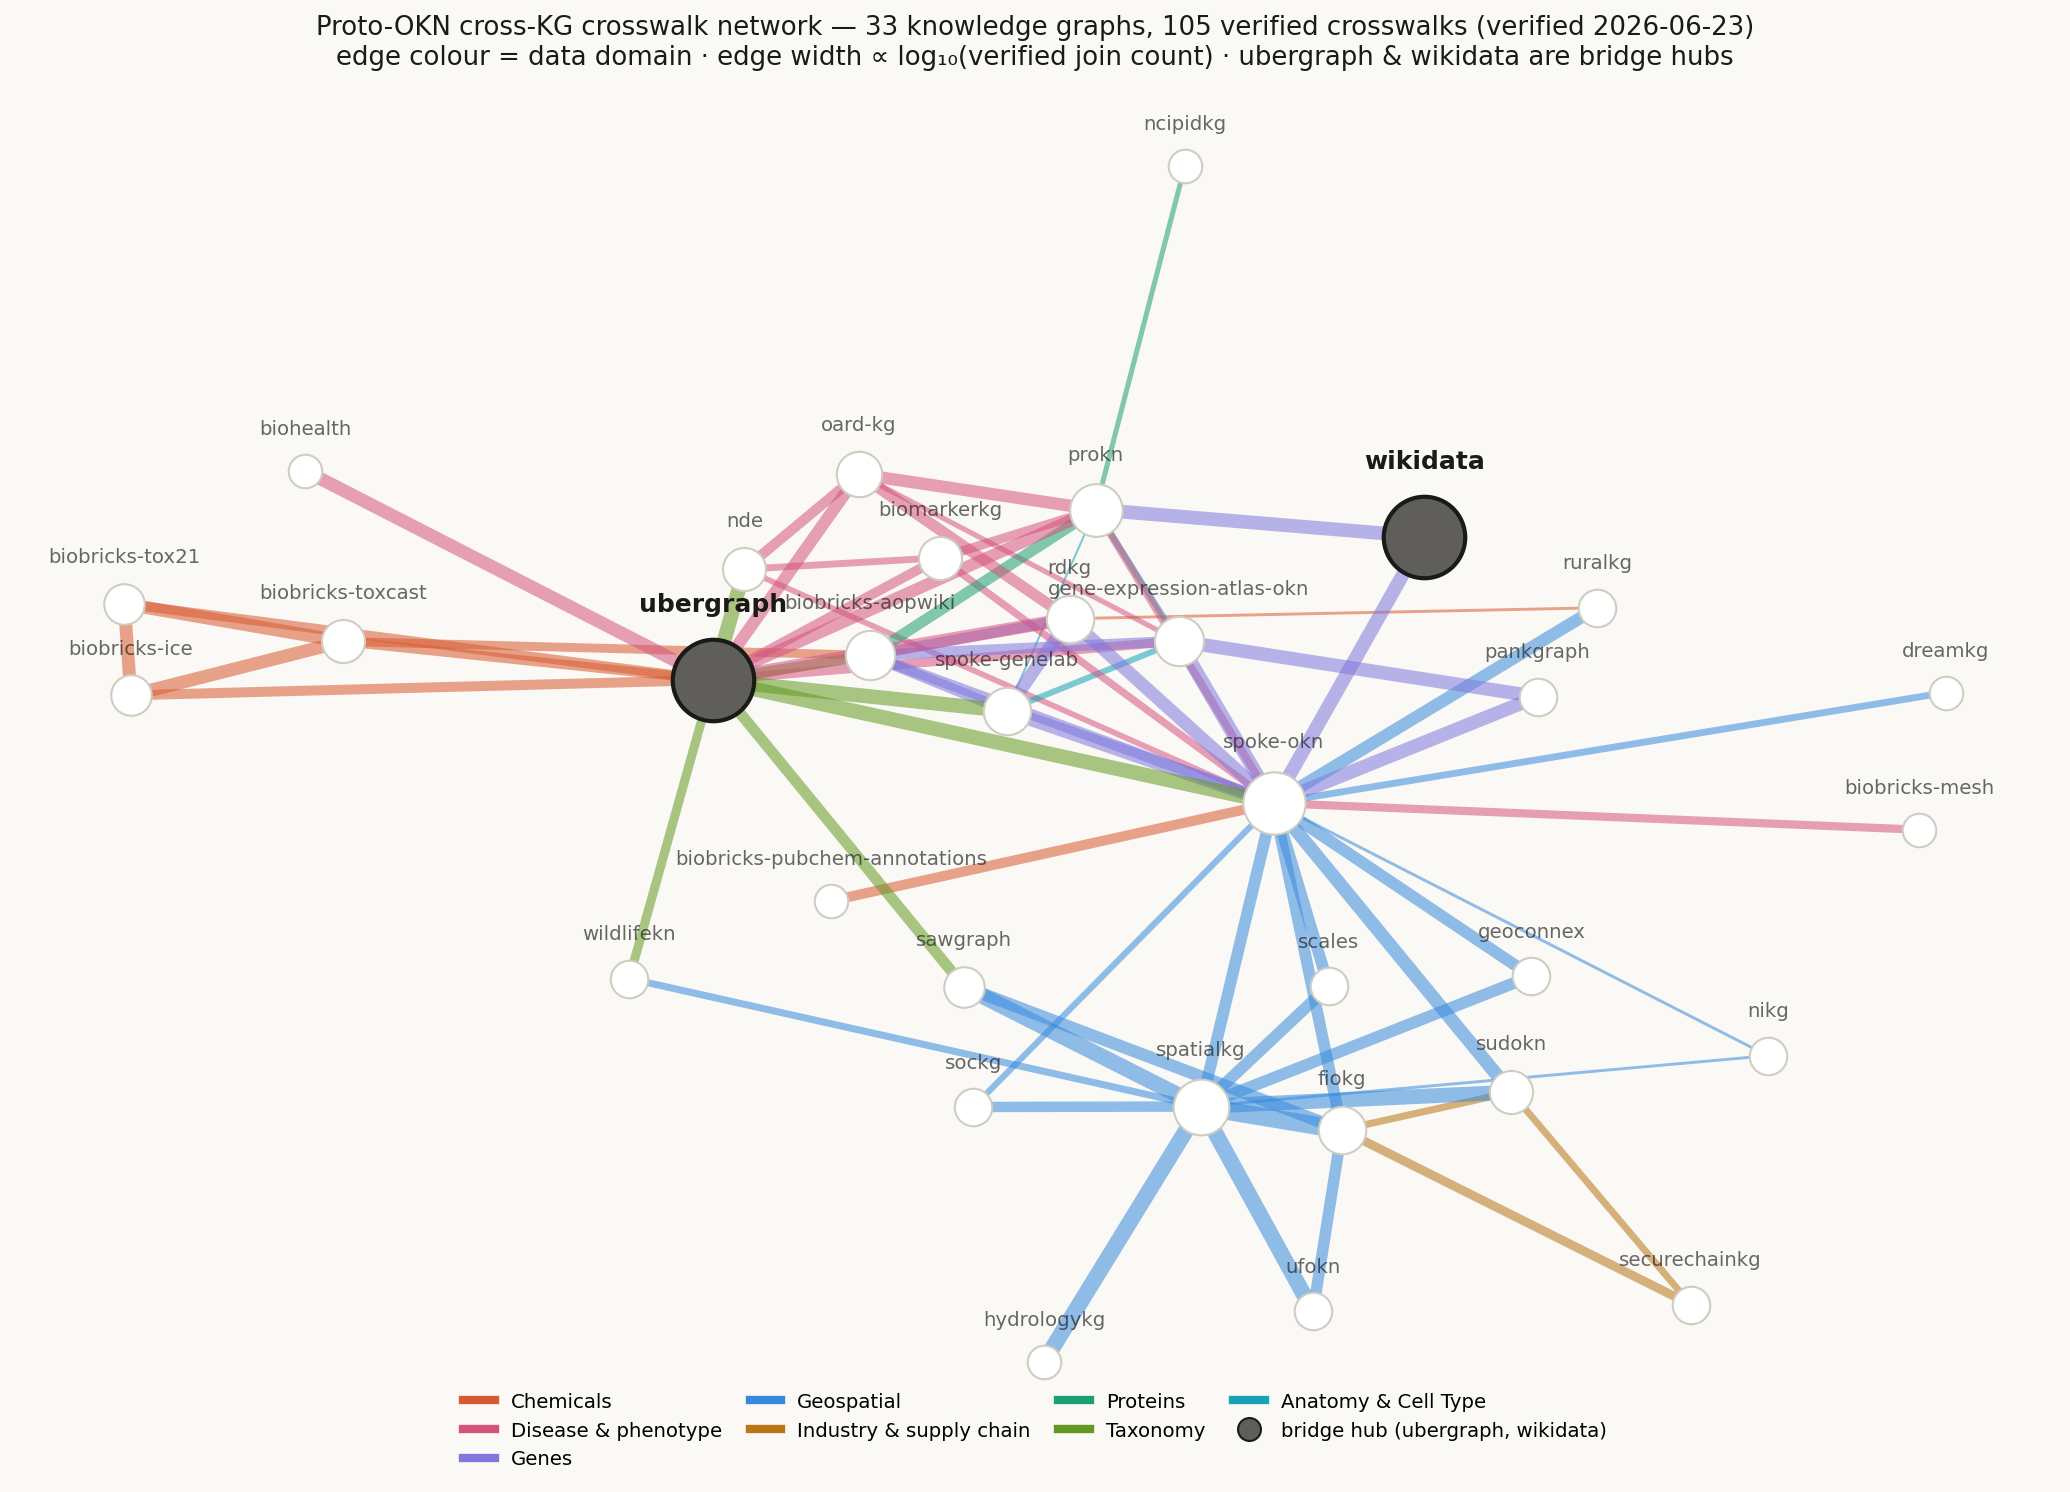
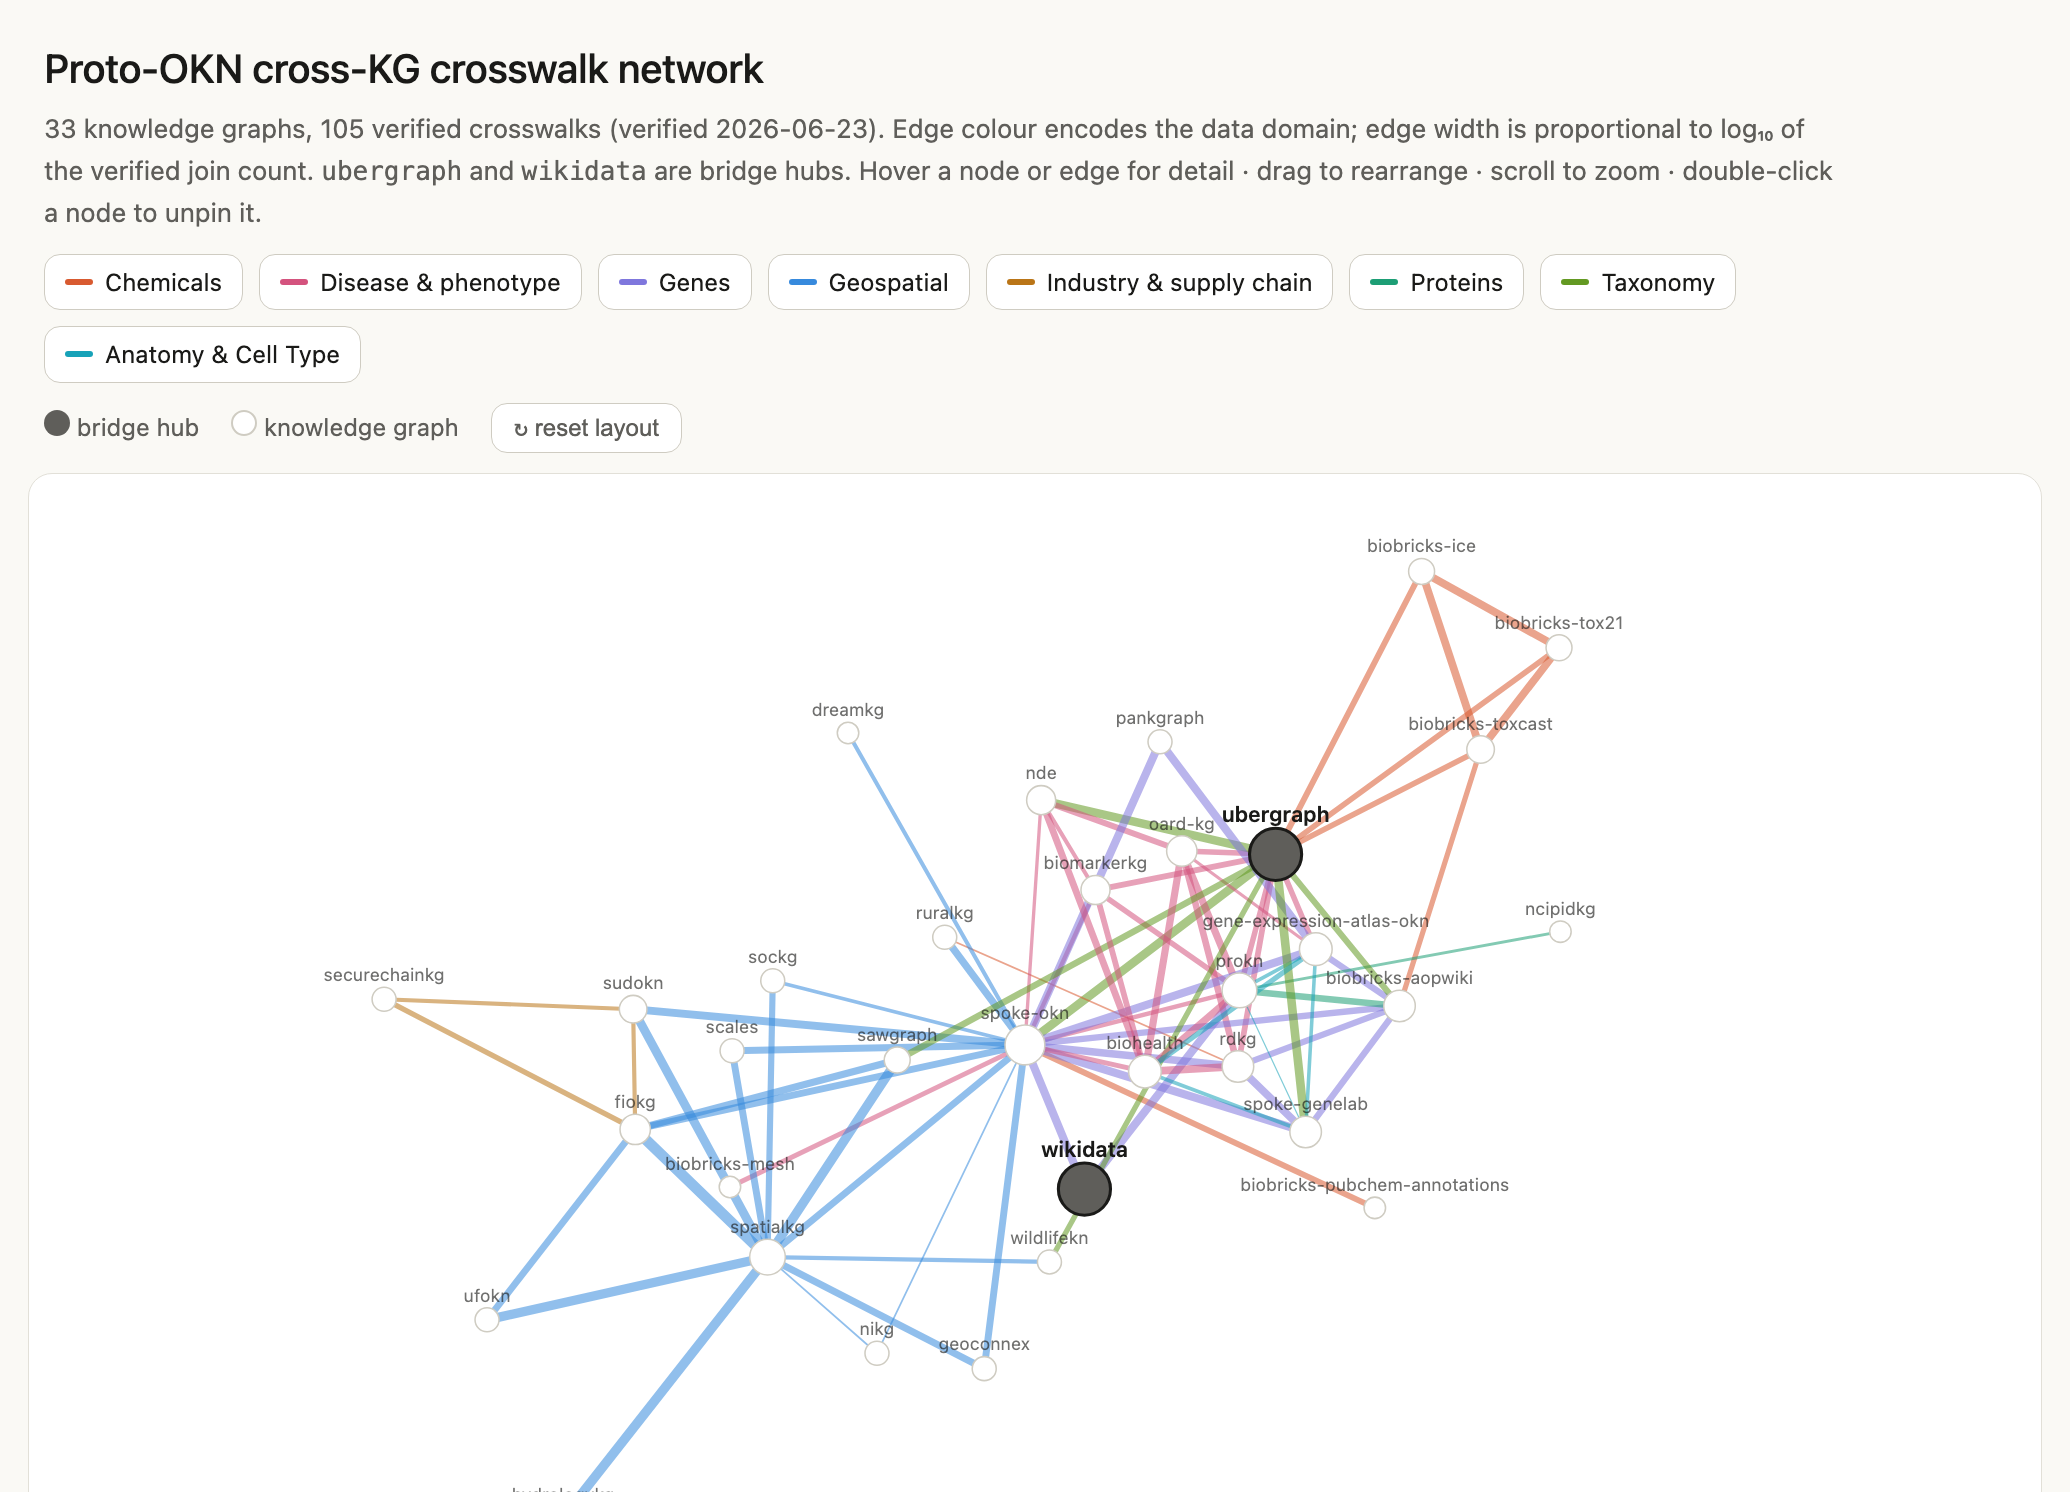
docs: draw biohealth with direct partner edges in network diagram
Biohealth was rendering as a degree-1 leaf off ubergraph because its 10
crosswalks were encoded as 3-node hub tuples that all collapse onto the
biohealth-ubergraph segment. Re-encode them as direct biohealth-partner
edges with the ubergraph bridge noted in the label, so biohealth reads as
the degree-8 disease hub it is. Regenerate the PNG and align the
transcript prose.

diff --git a/docs/crosswalks/crosswalk-network.html b/docs/crosswalks/crosswalk-network.html
@@ -81,8 +81,8 @@ const R=[
 ["I",["fiokg","securechainkg"],301,"NAICS"],["I",["fiokg","sudokn"],64,"NAICS"],["I",["securechainkg","sudokn"],35,"NAICS"],["I",["securechainkg","sudokn"],58,"SUDOKN sector"],
 ["P",["biobricks-aopwiki","prokn"],1805,"UniProt"],["P",["ncipidkg","prokn"],12,"UniProt"],
 ["T",["biobricks-aopwiki","ubergraph","gene-expression-atlas-okn"],[7,8,8],"NCBITaxon"],["T",["biobricks-aopwiki","ubergraph","nde"],[62,164,961],"NCBITaxon"],["T",["biobricks-aopwiki","ubergraph","sawgraph"],[7,164,145],"NCBITaxon"],["T",["biobricks-aopwiki","ubergraph","spoke-genelab"],[7,8,8],"NCBITaxon"],["T",["gene-expression-atlas-okn","ubergraph","nde"],[6,8,12],"NCBITaxon"],["T",["gene-expression-atlas-okn","ubergraph","sawgraph"],[0,8,0],"NCBITaxon"],["T",["gene-expression-atlas-okn","ubergraph","spoke-genelab"],[8,8,8],"NCBITaxon"],["T",["nde","ubergraph","sawgraph"],[73,1727,538],"NCBITaxon"],["T",["nde","ubergraph","spoke-genelab"],[7,46,55],"NCBITaxon"],["T",["nde","ubergraph","spoke-okn"],[23,23,33601],"NCBITaxon"],["T",["nde","ubergraph","wildlifekn"],[17,57,339],"NCBITaxon"],["T",["sawgraph","ubergraph","spoke-genelab"],[0,0,13],"NCBITaxon"],["T",["sawgraph","ubergraph","wildlifekn"],[2,2,339],"NCBITaxon"],["T",["spoke-genelab","ubergraph","spoke-okn"],[2,2,33313],"NCBITaxon"],
-["D",["biohealth","ubergraph","rdkg"],9122,"UMLS\u2194MONDO"],["D",["biohealth","ubergraph","prokn"],4284,"UMLS\u2194HP"],["D",["biohealth","ubergraph","spoke-okn"],173,"UMLS\u2194MONDO\u2194DOID"],["D",["biohealth","ubergraph","oard-kg"],1796,"UMLS\u2194MONDO"],["D",["biohealth","ubergraph","oard-kg"],4549,"UMLS\u2194HP"],["D",["biohealth","ubergraph","nde"],2760,"UMLS\u2194MONDO"],["D",["biohealth","ubergraph","biomarkerkg"],620,"UMLS\u2194MONDO\u2194DOID"],["D",["biohealth","ubergraph","gene-expression-atlas-okn"],13,"UMLS\u2194HP"],
-["A",["biohealth","ubergraph","gene-expression-atlas-okn"],249,"UMLS\u2194UBERON"],["A",["biohealth","ubergraph","spoke-genelab"],35,"UMLS\u2194UBERON"],["A",["spoke-genelab","gene-expression-atlas-okn"],27,"UBERON"],["A",["gene-expression-atlas-okn","prokn"],31,"CL"],["A",["spoke-genelab","gene-expression-atlas-okn"],4,"CL"],["A",["spoke-genelab","prokn"],1,"CL"]
+["D",["biohealth","rdkg"],9122,"UMLS\u2194MONDO (ubergraph)"],["D",["biohealth","prokn"],4284,"UMLS\u2194HP (ubergraph)"],["D",["biohealth","spoke-okn"],173,"UMLS\u2194MONDO\u2194DOID (ubergraph)"],["D",["biohealth","oard-kg"],1796,"UMLS\u2194MONDO (ubergraph)"],["D",["biohealth","oard-kg"],4549,"UMLS\u2194HP (ubergraph)"],["D",["biohealth","nde"],2760,"UMLS\u2194MONDO (ubergraph)"],["D",["biohealth","biomarkerkg"],620,"UMLS\u2194MONDO\u2194DOID (ubergraph)"],["D",["biohealth","gene-expression-atlas-okn"],13,"UMLS\u2194HP (ubergraph)"],
+["A",["biohealth","gene-expression-atlas-okn"],249,"UMLS\u2194UBERON (ubergraph)"],["A",["biohealth","spoke-genelab"],35,"UMLS\u2194UBERON (ubergraph)"],["A",["spoke-genelab","gene-expression-atlas-okn"],27,"UBERON"],["A",["gene-expression-atlas-okn","prokn"],31,"CL"],["A",["spoke-genelab","gene-expression-atlas-okn"],4,"CL"],["A",["spoke-genelab","prokn"],1,"CL"]
 ];
 const eff=w=>Array.isArray(w)?Math.max(w[0],w[1],w[2]):w;
 const emap=new Map();

diff --git a/docs/crosswalks/crosswalk-transcript.md b/docs/crosswalks/crosswalk-transcript.md
@@ -60,7 +60,7 @@ A few things the layout makes visible:
 
 The two bridge nodes behave differently. `ubergraph` is a true ontology backbone — it brokers the disease crosswalks (DOID↔MONDO, EFO↔MONDO), the CHEBI↔CAS chemical joins, all 14 NCBITaxon overlaps, and now the entire `biohealth` cluster (UMLS↔MONDO/HP/UBERON). `wikidata` bridges exactly one crosswalk: `prokn → spoke-okn` via HGNC→Entrez (16,298 genes).
 
-The newest additions are `biohealth` — a SemMedDB-style clinical-predication graph keyed entirely on UMLS CUIs — and a new **Anatomy & Cell Type** domain. `biohealth` carries no ontology ids of its own, so all 10 of its crosswalks attach through `ubergraph` (UMLS→MONDO/HP/UBERON); its thickest edge is `biohealth ↔ ubergraph ↔ rdkg` (9,122 shared diseases). The Anatomy & Cell Type domain adds direct UBERON/CL joins among `gene-expression-atlas-okn`, `spoke-genelab` and `prokn` (e.g. `gxa ↔ prokn` on 31 shared CL cell types), linking spaceflight-assay and terrestrial single-cell expression to cell-type marker knowledge.
+The newest additions are `biohealth` — a SemMedDB-style clinical-predication graph keyed entirely on UMLS CUIs — and a new **Anatomy & Cell Type** domain. `biohealth` carries no ontology ids of its own — its nodes are UMLS CUIs — so every biohealth crosswalk bridges through `ubergraph`'s UMLS xrefs (UMLS→MONDO/HP/UBERON); the diagram draws these as direct `biohealth`–partner edges with the bridge noted in the label, the thickest being `biohealth ↔ rdkg` (9,122 shared diseases), so `biohealth` reads as the well-connected disease hub it is rather than a leaf on `ubergraph`. The Anatomy & Cell Type domain adds direct UBERON/CL joins among `gene-expression-atlas-okn`, `spoke-genelab` and `prokn` (e.g. `gxa ↔ prokn` on 31 shared CL cell types), linking spaceflight-assay and terrestrial single-cell expression to cell-type marker knowledge.
 
 One caveat on the taxonomy edges: those rows don't carry a single verified count, so their width uses the larger of the exact-id and clade-membership numbers. That's why `nde ↔ ubergraph ↔ spoke-okn` looks heavy — it's 23 exact taxon matches but 33,601 by clade once expanded through `subClassOf*`.
 
